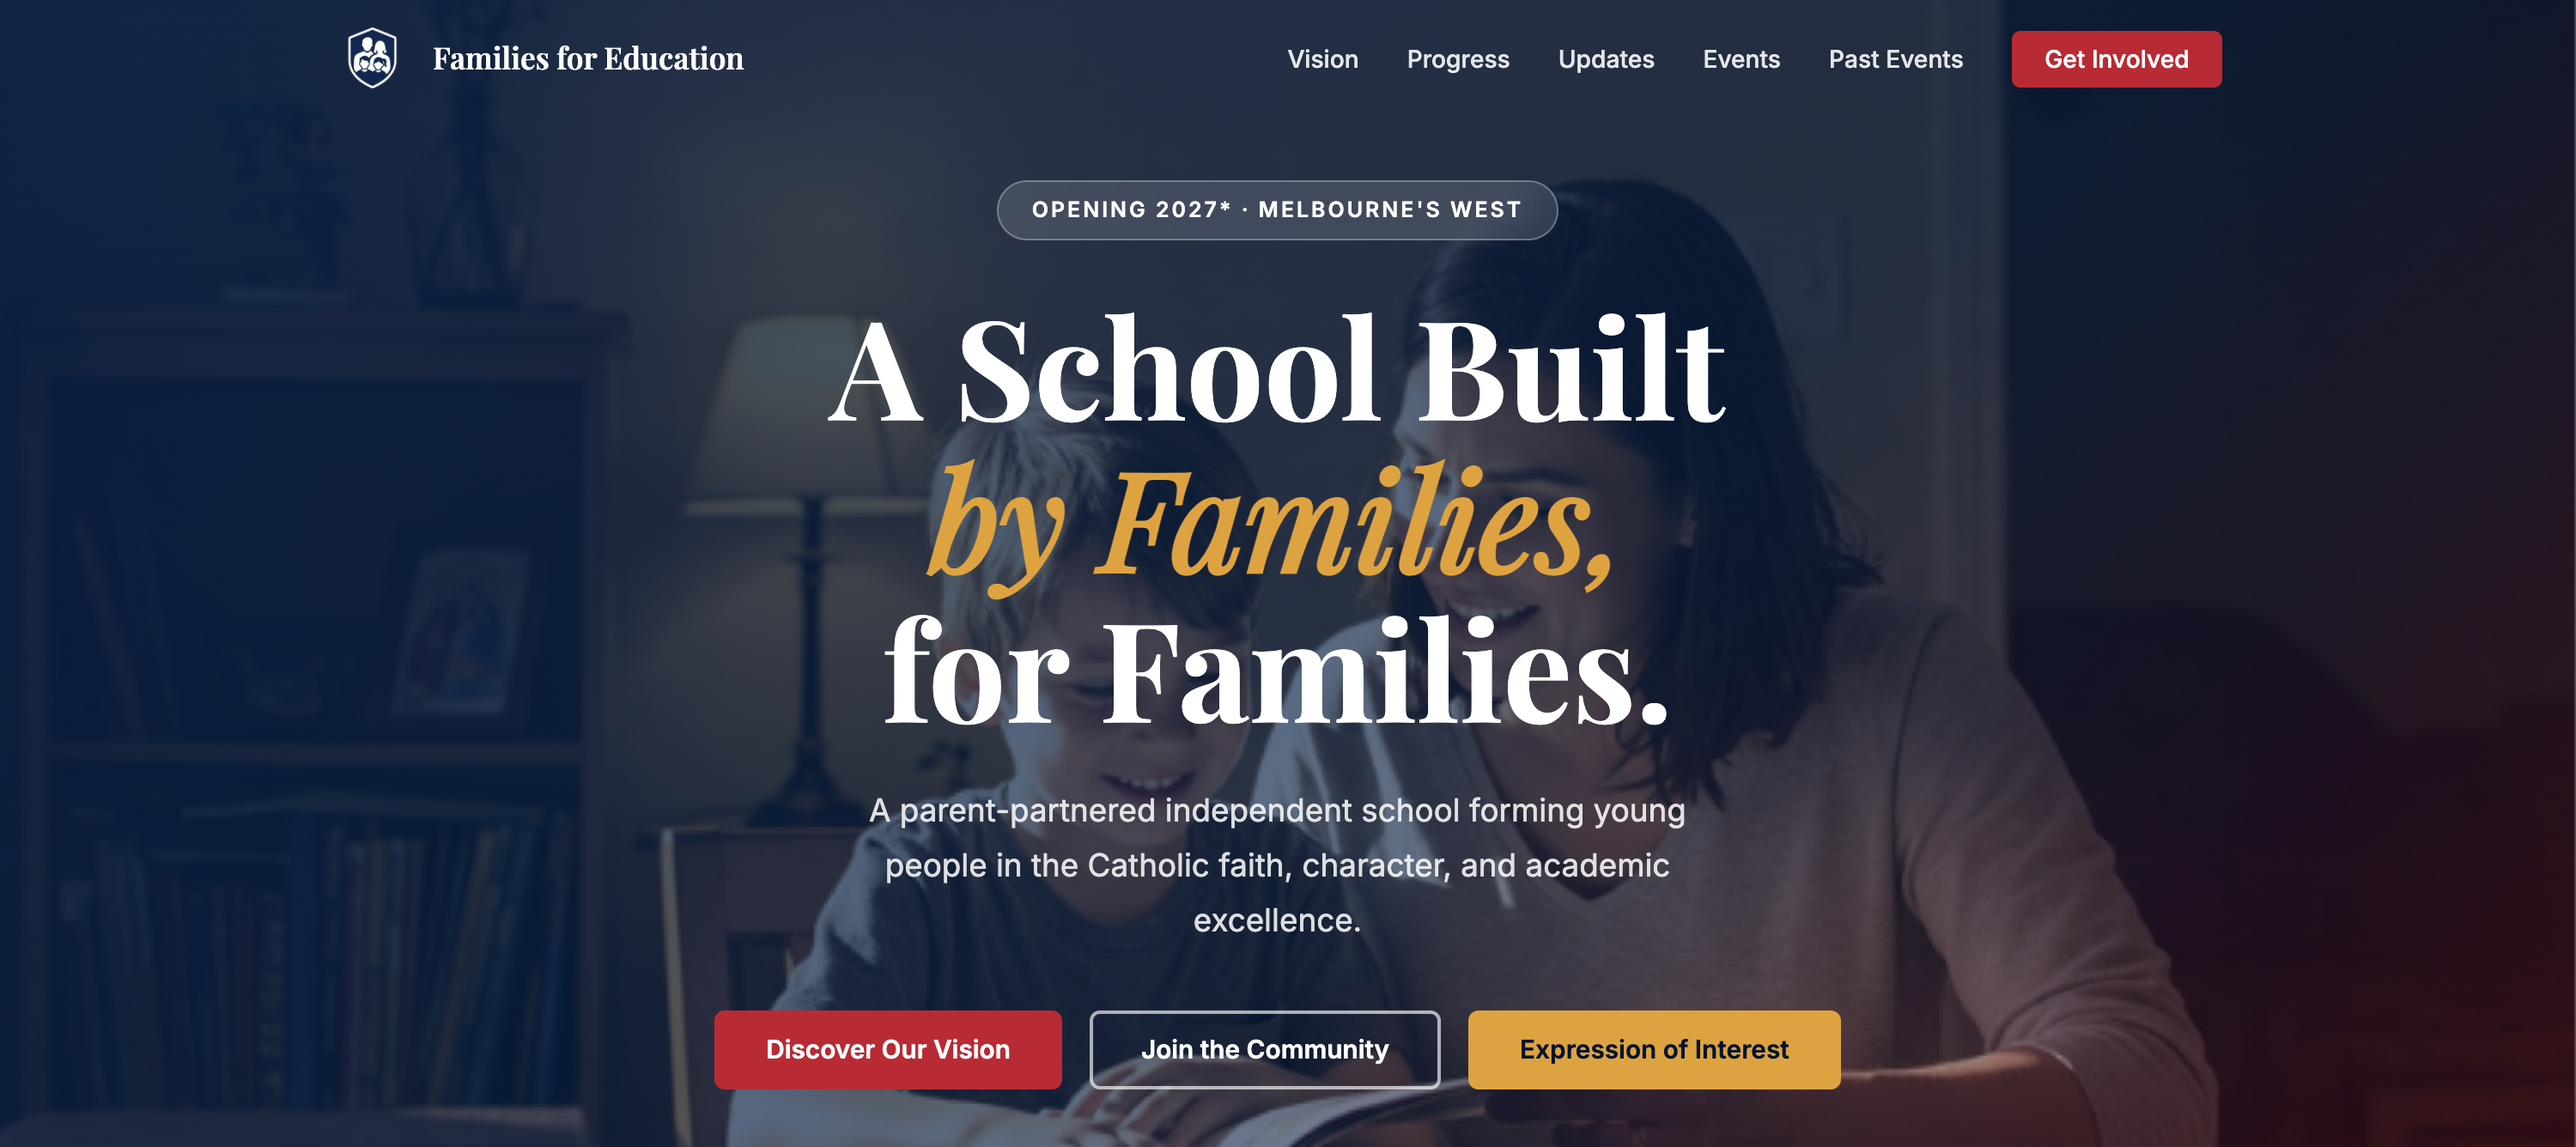
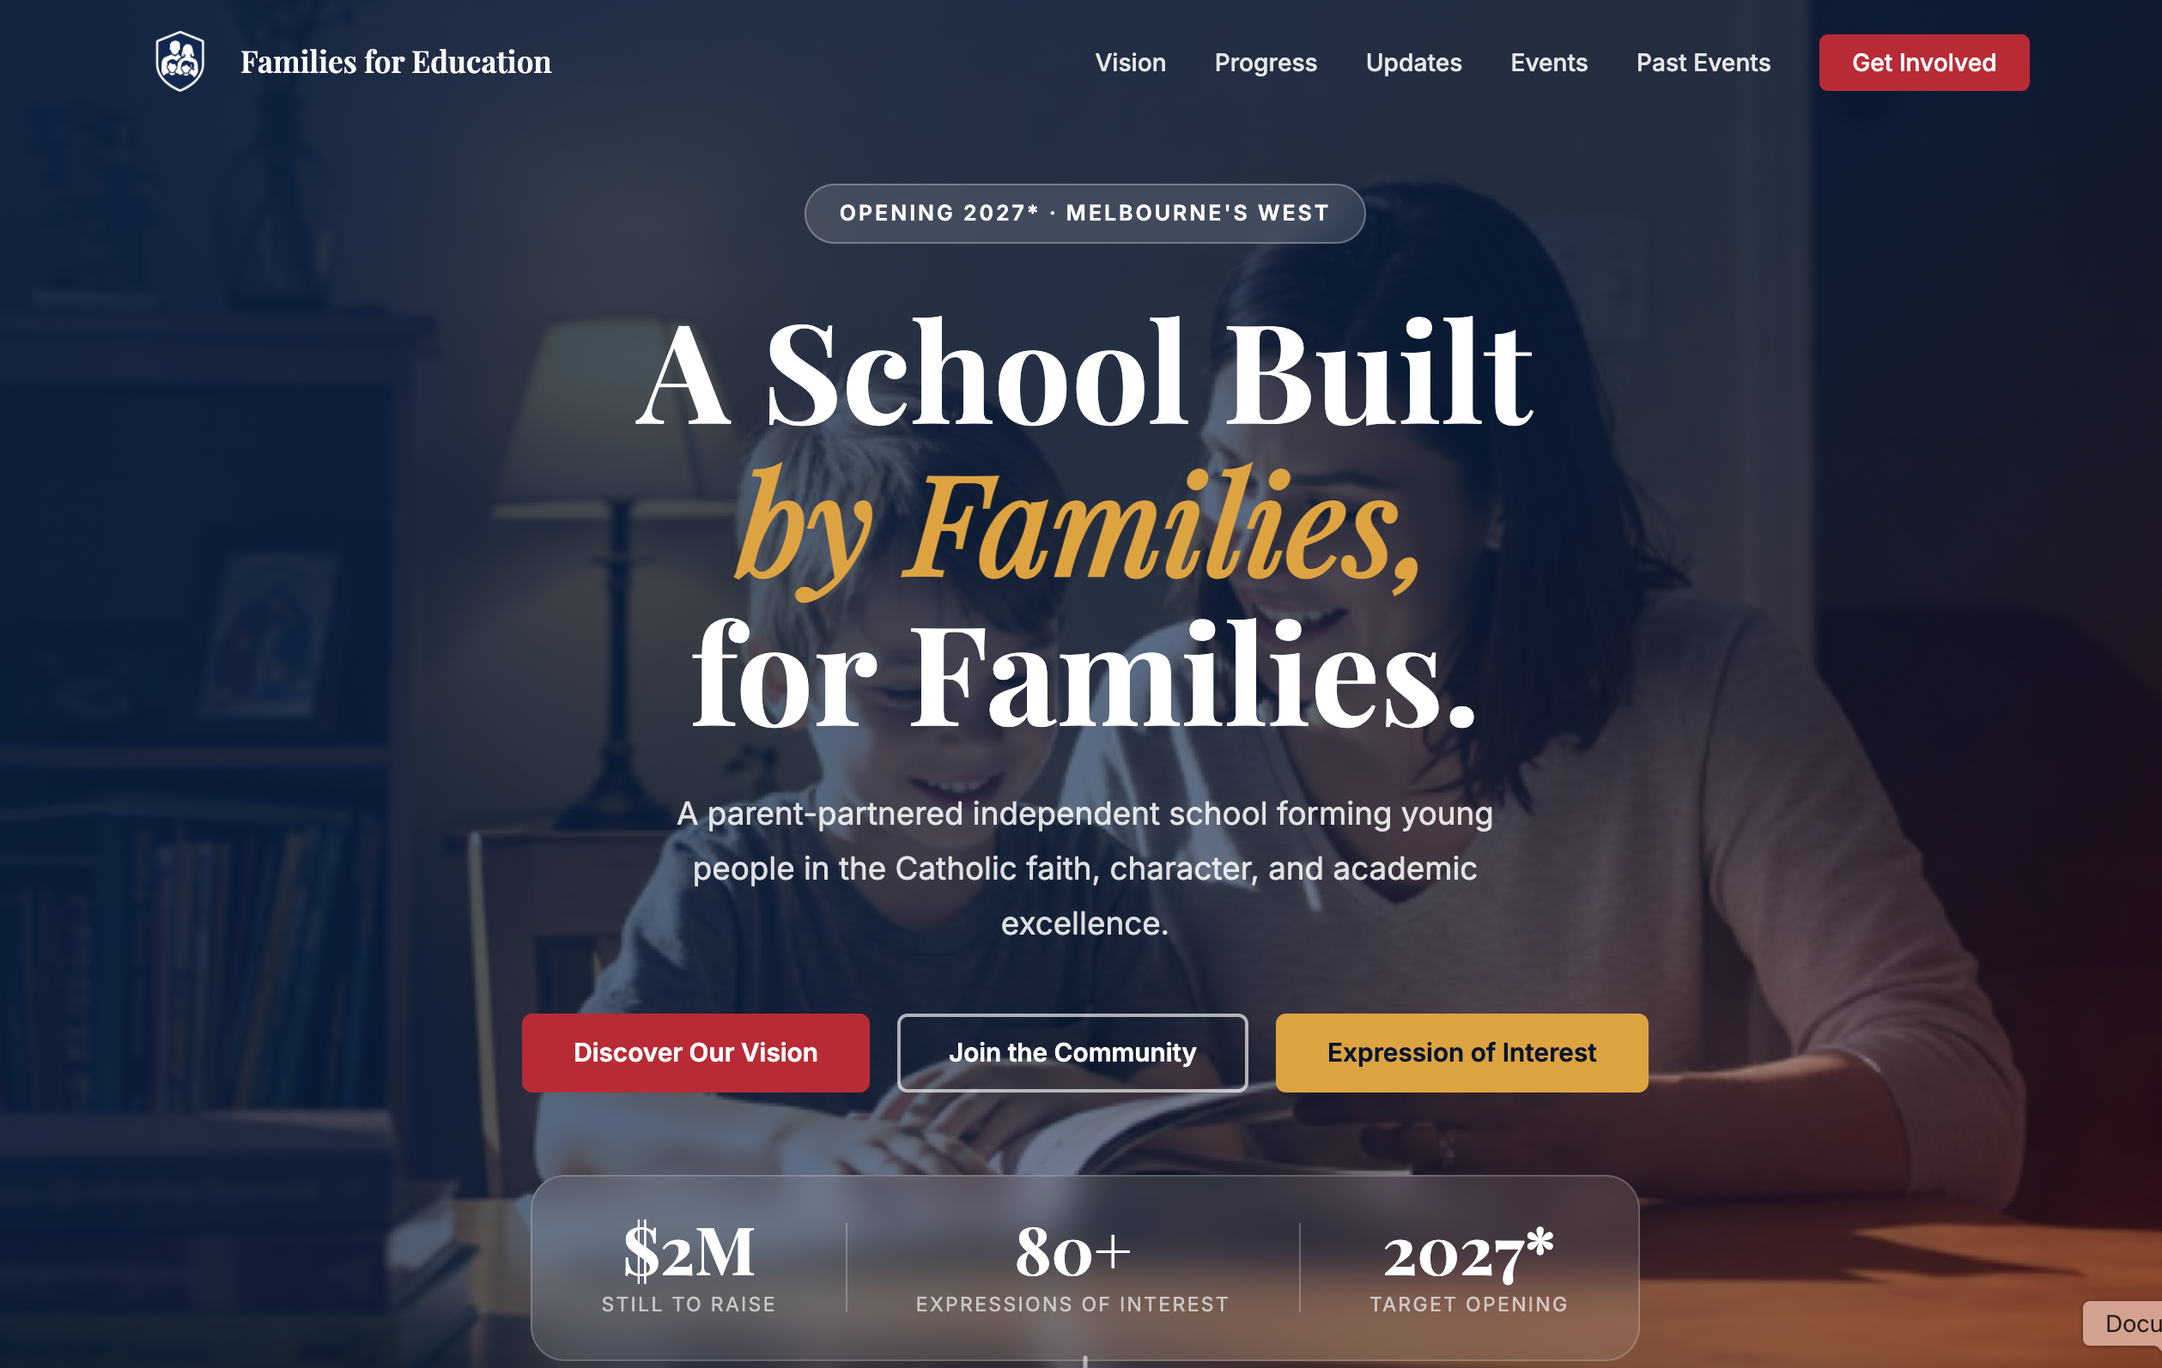
email 2

diff --git a/emails/email02 copy 3.html b/emails/email02 copy 3.html
@@ -1,0 +1,152 @@
+<!DOCTYPE html>
+<html lang="en">
+<head>
+  <meta charset="UTF-8">
+  <meta name="viewport" content="width=device-width, initial-scale=1.0">
+  <title>Families for Education — Our Website Is Live</title>
+  <link href="https://fonts.googleapis.com/css2?family=Playfair+Display:ital,wght@0,400;0,600;0,700;1,400&family=Inter:wght@400;500;600;700&display=swap" rel="stylesheet">
+</head>
+<body style="margin:0;padding:0;background-color:#00234B;font-family:'Inter',-apple-system,BlinkMacSystemFont,sans-serif;">
+
+  <table width="100%" cellpadding="0" cellspacing="0" border="0" style="background-color:#00234B;">
+    <tr>
+      <td align="center" style="padding:24px 12px;">
+
+        <!-- Outer card -->
+        <table width="620" cellpadding="0" cellspacing="0" border="0" style="max-width:620px;width:100%;">
+
+          <!-- ===== LOGO ===== -->
+          <tr>
+            <td align="center" style="background-color:#ffffff;padding:28px 40px 22px;border-bottom:4px solid #C8102E;">
+              <img src="https://ffe.org.au/img/LogoText.png" alt="Families for Education" width="260" style="display:block;max-width:100%;height:auto;">
+            </td>
+          </tr>
+
+          <!-- ===== SECTION 1: Website Launch ===== -->
+          <tr>
+            <td style="background-color:#ffffff;padding:32px 44px 28px;">
+              <p style="font-family:'Inter',Arial,Helvetica,sans-serif;font-size:10px;font-weight:700;letter-spacing:0.18em;text-transform:uppercase;color:#C8102E;margin:0 0 10px;text-align:center;">Our New Website</p>
+              <h2 style="font-family:'Playfair Display',Georgia,'Times New Roman',serif;font-size:24px;font-weight:600;color:#00234B;text-align:center;margin:0 0 20px;line-height:1.2;">We're now online — explore <em>ffe.org.au</em></h2>
+              <p style="font-family:'Inter',Arial,Helvetica,sans-serif;font-size:13px;line-height:1.8;color:#2d3748;margin:0 0 20px;">
+                We are thrilled to share that the <strong>Families for Education</strong> website is now live at <a href="https://ffe.org.au" style="color:#C8102E;text-decoration:none;font-weight:600;">ffe.org.au</a>. It's your home for our vision, our story, progress updates, all four bulletins, and the Expression of Interest form. Take a look — and please share it with any family who may share our dream of a parent-partnered Catholic school for Melbourne's West.
+              </p>
+              <!-- CTA -->
+              <table width="100%" cellpadding="0" cellspacing="0" border="0">
+                <tr>
+                  <td align="center">
+                    <a href="https://ffe.org.au"
+                       style="display:inline-block;background-color:#00234B;color:#ffffff;font-family:'Inter',Arial,Helvetica,sans-serif;font-size:13px;font-weight:700;text-decoration:none;padding:13px 32px;border-radius:6px;letter-spacing:0.05em;">
+                      Visit ffe.org.au &rarr;
+                    </a>
+                  </td>
+                </tr>
+              </table>
+            </td>
+          </tr>
+
+          <!-- Website Screenshot -->
+          <tr>
+            <td style="padding:0;border-bottom:4px solid #C8102E;">
+              <!--
+                Upload the screenshot provided to: https://ffe.org.au/img/email/website-preview.png
+                then update the src below.
+              -->
+              <img src="https://ffe.org.au/img/email/website-preview.png"
+                   alt="Families for Education — A school built by families, for families"
+                   width="620"
+                   style="max-width:100%;height:auto;display:block;">
+            </td>
+          </tr>
+
+          <!-- ===== SECTION 2: Family Picnic ===== -->
+          <tr>
+            <td style="background-color:#F8F6F1;padding:32px 44px 20px;">
+              <p style="font-family:'Inter',Arial,Helvetica,sans-serif;font-size:10px;font-weight:700;letter-spacing:0.18em;text-transform:uppercase;color:#C8102E;margin:0 0 10px;text-align:center;">Upcoming Event</p>
+              <h2 style="font-family:'Playfair Display',Georgia,'Times New Roman',serif;font-size:24px;font-weight:600;color:#00234B;text-align:center;margin:0 0 20px;line-height:1.2;">Family Picnic — Sunday 26 April</h2>
+              <p style="font-family:'Inter',Arial,Helvetica,sans-serif;font-size:13px;line-height:1.8;color:#2d3748;margin:0 0 20px;">
+                Come and meet fellow founding families in person. Bring the kids, a picnic rug, and some lunch — it's a relaxed afternoon for the whole family. We'd love to see you there.
+              </p>
+              <!-- Event details box -->
+              <table width="100%" cellpadding="0" cellspacing="0" border="0" style="margin-bottom:4px;">
+                <tr>
+                  <td align="center" style="padding:20px;background-color:#00234B;border-radius:4px;">
+                    <p style="font-family:'Playfair Display',Georgia,'Times New Roman',serif;font-size:15px;font-weight:700;color:#ffffff;margin:0 0 5px;">Sunday 26<sup>th</sup> April 2026</p>
+                    <p style="font-family:'Playfair Display',Georgia,'Times New Roman',serif;font-size:15px;color:rgba(255,255,255,0.8);margin:0 0 5px;">Frontier Park, Aintree</p>
+                    <p style="font-family:'Playfair Display',Georgia,'Times New Roman',serif;font-size:15px;color:rgba(255,255,255,0.8);margin:0 0 16px;">1:00 p.m. – 3:00 p.m.</p>
+                    <a href="mailto:info@ffe.org.au"
+                       style="display:inline-block;background-color:#C8102E;color:#ffffff;font-family:'Inter',Arial,Helvetica,sans-serif;font-size:12px;font-weight:700;text-decoration:none;padding:10px 24px;border-radius:5px;letter-spacing:0.05em;">
+                      Register Your Interest
+                    </a>
+                  </td>
+                </tr>
+              </table>
+            </td>
+          </tr>
+
+          <!-- Picnic Image -->
+          <tr>
+            <td style="padding:0;border-bottom:4px solid #C8102E;">
+              <img src="https://ffe.org.au/img/email/picnicfinal.jpeg"
+                   alt="Family Picnic at Frontier Park, Aintree"
+                   width="620"
+                   style="max-width:100%;height:auto;display:block;">
+            </td>
+          </tr>
+
+          <!-- ===== CLOSING + QUOTE ===== -->
+          <tr>
+            <td style="background-color:#F8F6F1;padding:32px 44px 28px;text-align:center;">
+              <p style="font-family:'Playfair Display',Georgia,'Times New Roman',serif;font-size:14px;line-height:1.9;color:#2d3748;margin:0 0 24px;">
+                We are deeply grateful for every family who has prayed for, shared, and supported this vision.
+                The website is live — please share it widely. Every family who discovers this project
+                brings us one step closer to opening our doors in 2027.
+              </p>
+              <!-- Quote block -->
+              <table width="100%" cellpadding="0" cellspacing="0" border="0">
+                <tr>
+                  <td align="center" style="background-color:#00234B;padding:24px 32px;border-radius:4px;">
+                    <p style="font-family:'Playfair Display',Georgia,'Times New Roman',serif;font-size:19px;color:#e8a020;margin:0 0 8px;line-height:1.5;">
+                      &ldquo;Train up a child in the way he should go; even when he is old he will not depart from it.&rdquo;
+                    </p>
+                    <p style="font-family:'Inter',Arial,Helvetica,sans-serif;font-size:11px;letter-spacing:0.1em;color:rgba(255,255,255,0.55);margin:0;text-transform:uppercase;">
+                      Proverbs 22:6
+                    </p>
+                  </td>
+                </tr>
+              </table>
+            </td>
+          </tr>
+
+          <!-- ===== CTA ===== -->
+          <tr>
+            <td align="center" style="background-color:#ffffff;padding:28px 44px;">
+              <p style="font-family:'Inter',Arial,Helvetica,sans-serif;font-size:13px;color:#718096;margin:0 0 16px;">Interested in enrolling? Submit an Expression of Interest today.</p>
+              <a href="https://tinyurl.com/FamiliesEdEOI"
+                 style="display:inline-block;background-color:#C8102E;color:#ffffff;font-family:'Inter',Arial,Helvetica,sans-serif;font-size:13px;font-weight:700;text-decoration:none;padding:13px 32px;border-radius:6px;letter-spacing:0.05em;">
+                Submit Expression of Interest
+              </a>
+            </td>
+          </tr>
+
+          <!-- ===== FOOTER ===== -->
+          <tr>
+            <td align="center" style="background-color:#001530;padding:24px 44px;">
+              <p style="font-family:'Inter',Arial,Helvetica,sans-serif;font-size:11px;color:rgba(255,255,255,0.5);margin:0 0 6px;">
+                Produced by the <strong style="color:rgba(255,255,255,0.75);">Families for Education Ltd</strong> team &nbsp;&middot;&nbsp;
+                <a href="mailto:info@ffe.org.au" style="color:rgba(255,255,255,0.5);text-decoration:none;">info@ffe.org.au</a>
+              </p>
+              <p style="font-family:'Inter',Arial,Helvetica,sans-serif;font-size:11px;color:rgba(255,255,255,0.4);margin:0;line-height:1.6;">
+                School opening is subject to regulatory approvals, including registration with the Victorian Registration and Qualifications Authority (VRQA).
+              </p>
+            </td>
+          </tr>
+
+        </table>
+        <!-- End outer card -->
+
+      </td>
+    </tr>
+  </table>
+
+</body>
+</html>
